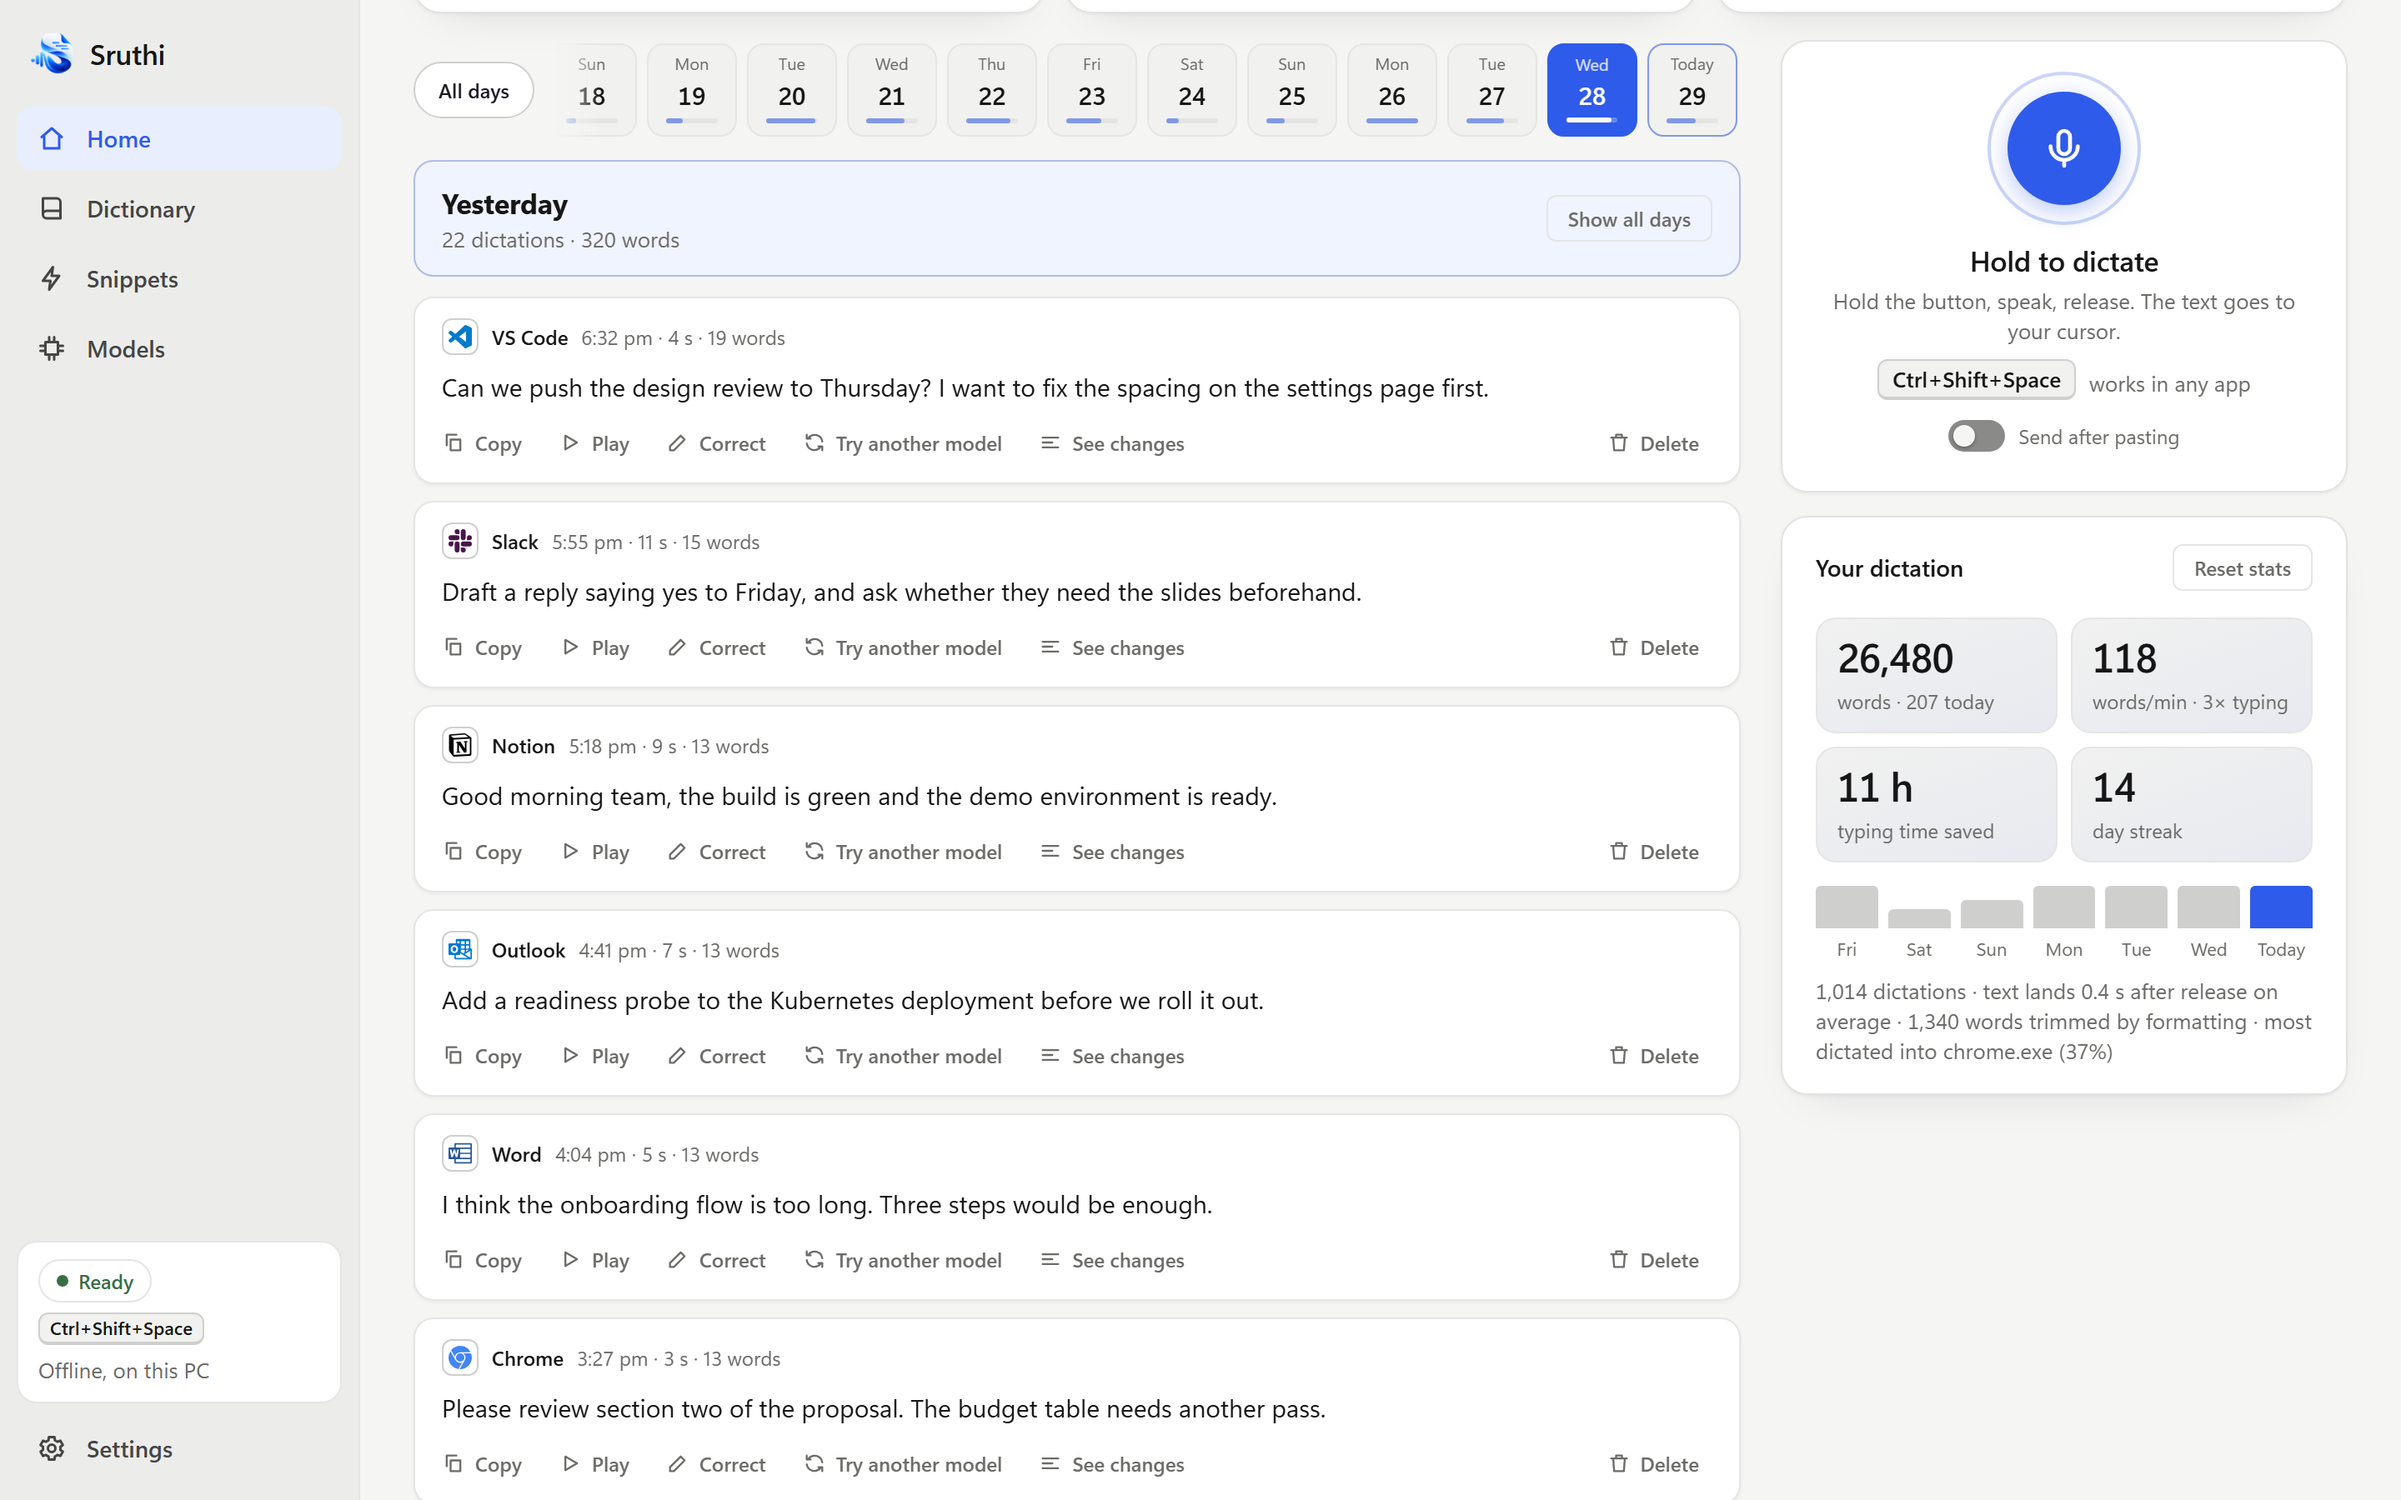
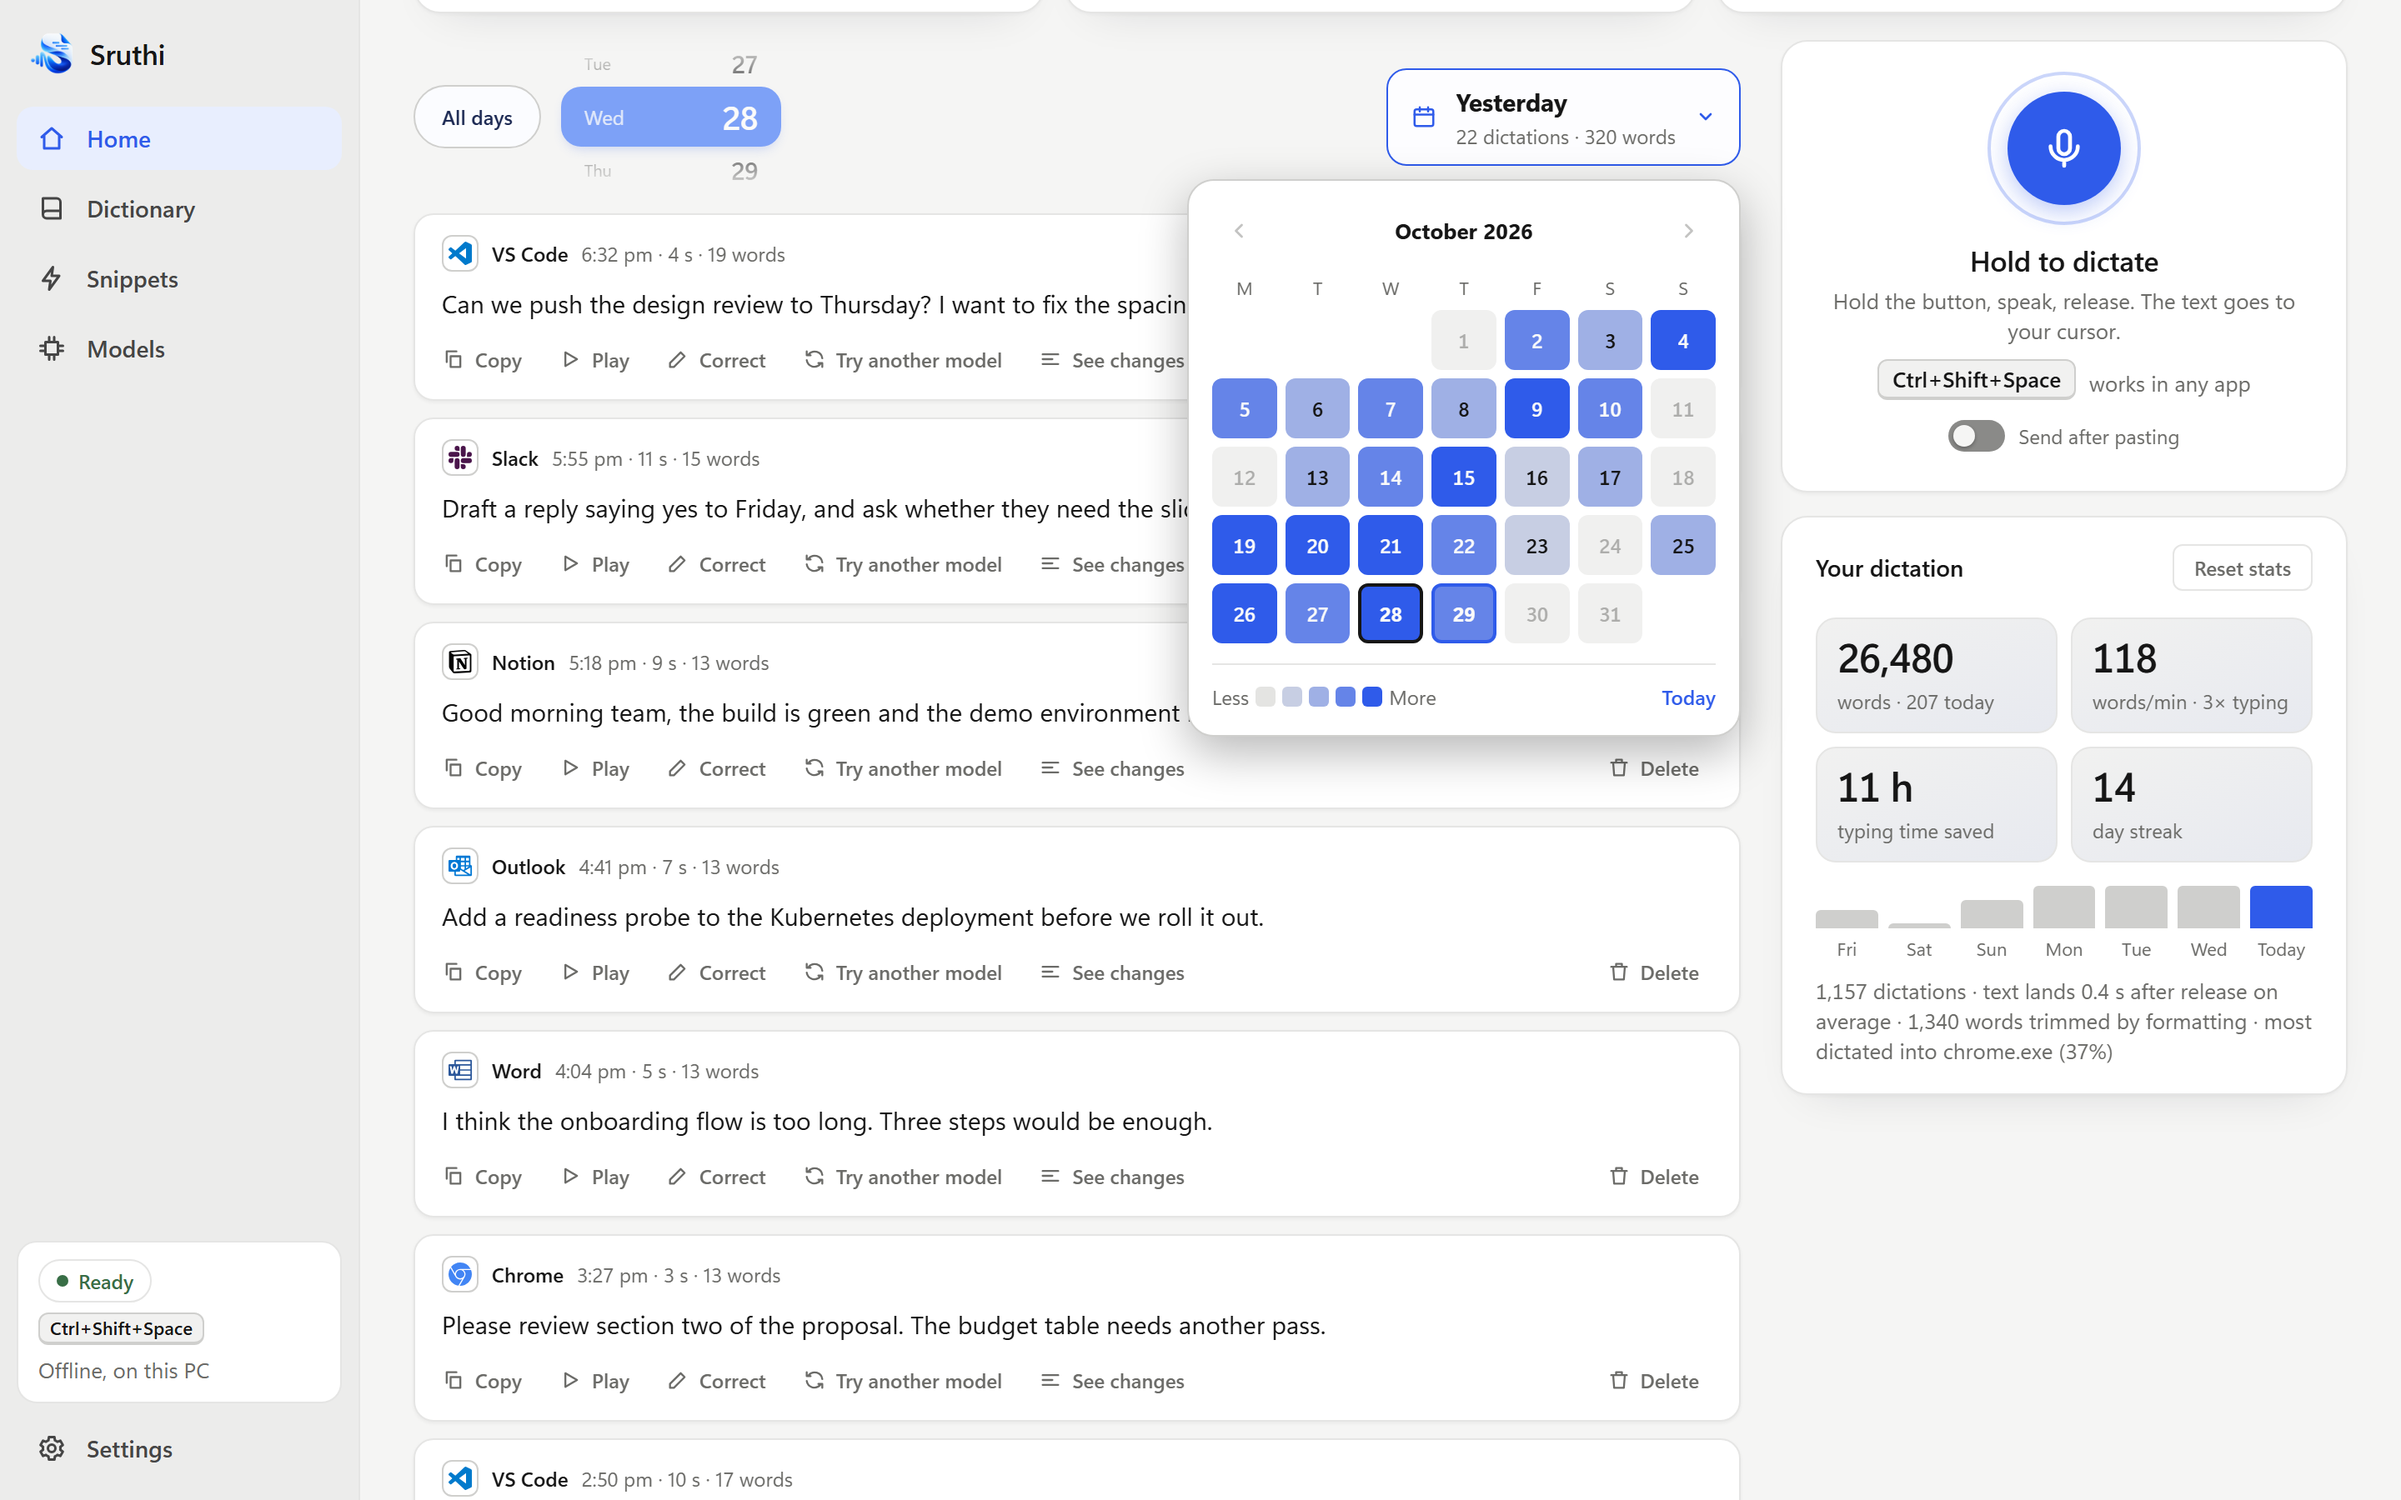
Retake the Home screenshots for the day wheel and calendar
home.png, home-dark.png and history.png now show the day wheel and the heat
calendar instead of the old chip row, and the README, release notes and site
describe them. The screenshots use sample data.

diff --git a/docs/index.html b/docs/index.html
@@ -246,7 +246,7 @@
       <div class="copy">
         <div class="eyebrow">History</div>
         <h3>Every dictation, day by day.</h3>
-        <p>Home keeps what you said, which app it went into and when. Filter to any day, or search all of it.</p>
+        <p>Home keeps what you said, which app it went into and when. Step through days with a small wheel, pick a date from a heat calendar, or search all of it.</p>
         <ul>
           <li>Replay a recording and fix a mishearing</li>
           <li>Try another model on the same audio</li>

diff --git a/docs/release-notes.md b/docs/release-notes.md
@@ -1,6 +1,6 @@
 **Sruthi 0.4.0: all of your history, your stats to share, and control of your audio.**
 
-- **Every day, not just today.** Home used to reach only your newest 50 dictations. Now a scrolling day filter jumps to any day and shows everything from it, "All days" is one continuous feed with Show more, and search covers every dictation you have ever made, narrowed by Any time, Last 7 days or Today.
+- **Every day, not just today.** Home used to reach only your newest 50 dictations. Now a small day wheel (scroll, drag or use the arrow keys) and a heat calendar pick any day and show everything from it, "All days" is one continuous feed with Show more, and search covers every dictation you have ever made, narrowed by Any time, Last 7 days or Today.
 - **Share your stats.** Share my stats on Home makes a picture of your own numbers: Time saved, My week, Speed or Milestone. It is drawn on your PC, you choose what is on it (streak, speed, app names), and no dictated text is ever included. Save a PNG, copy the image, or open X, LinkedIn or WhatsApp with a caption ready to paste.
 - **Send after pasting.** Switch it on and Sruthi presses the send key for you, so a chat message goes out or a search runs the moment you let go. Pick Enter, Ctrl+Enter, Shift+Enter or Alt+Enter, and set it differently per app or website in Settings > Sending.
 - **Control of your audio.** A reminder on Home appears when audio passes a size you choose. Settings > History and storage lets you keep audio for 90, 30 or 7 days, or not at all, and Free up space can zip audio, move it to another drive, or delete it. Zips and copies are checked before the originals are removed, and your words and stats always stay. Dictations you corrected keep their audio.

diff --git a/README.md b/README.md
@@ -68,7 +68,7 @@ The default shortcut is <kbd>Ctrl</kbd> + <kbd>Shift</kbd> + <kbd>Space</kbd>, a
   <img src="docs/images/history.png" alt="Filter Home to a single day and see everything you dictated that day" width="900" />
 </p>
 
-- **A home for every dictation.** See what you said, which app it went into and when. Filter by day, or search across all of it.
+- **A home for every dictation.** See what you said, which app it went into and when. Step through days with a small wheel, pick a date from a heat calendar, or search across all of it.
 - **Replay and correct.** Listen to any recording, fix a mishearing, or run it through another model to compare. See exactly what formatting changed.
 - **Your speed, honestly measured.** Words, words per minute against typing, time saved, streaks and the apps you dictate into.
 - **A speed test on your own voice.** Correct a few dictations and Sruthi scores each installed model against what you actually said.
